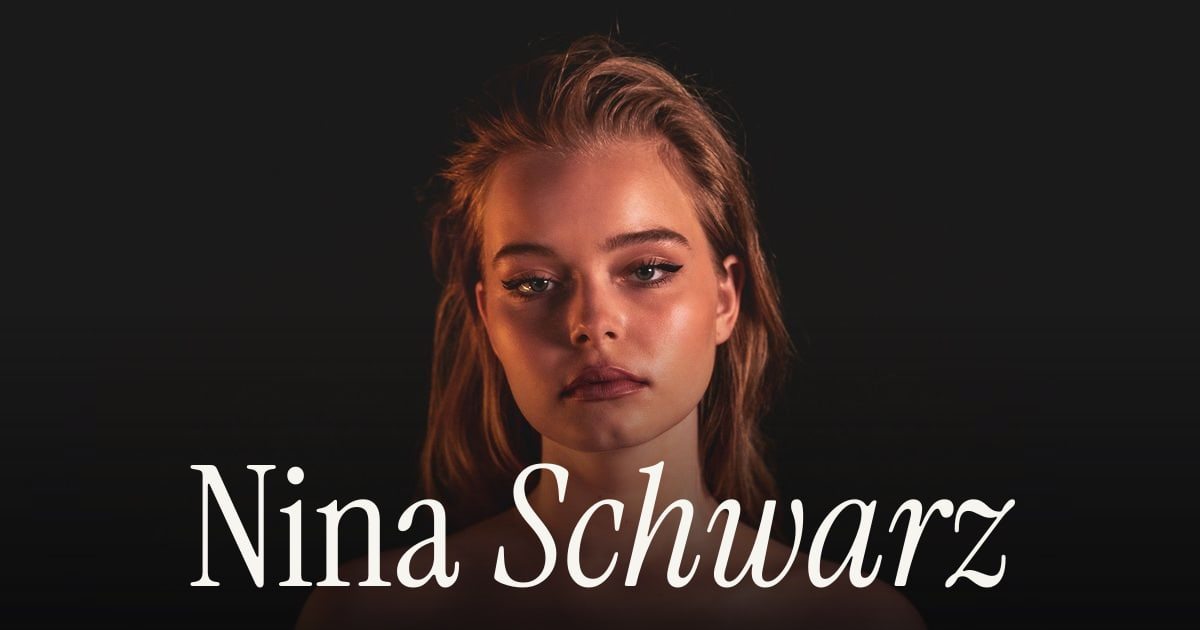
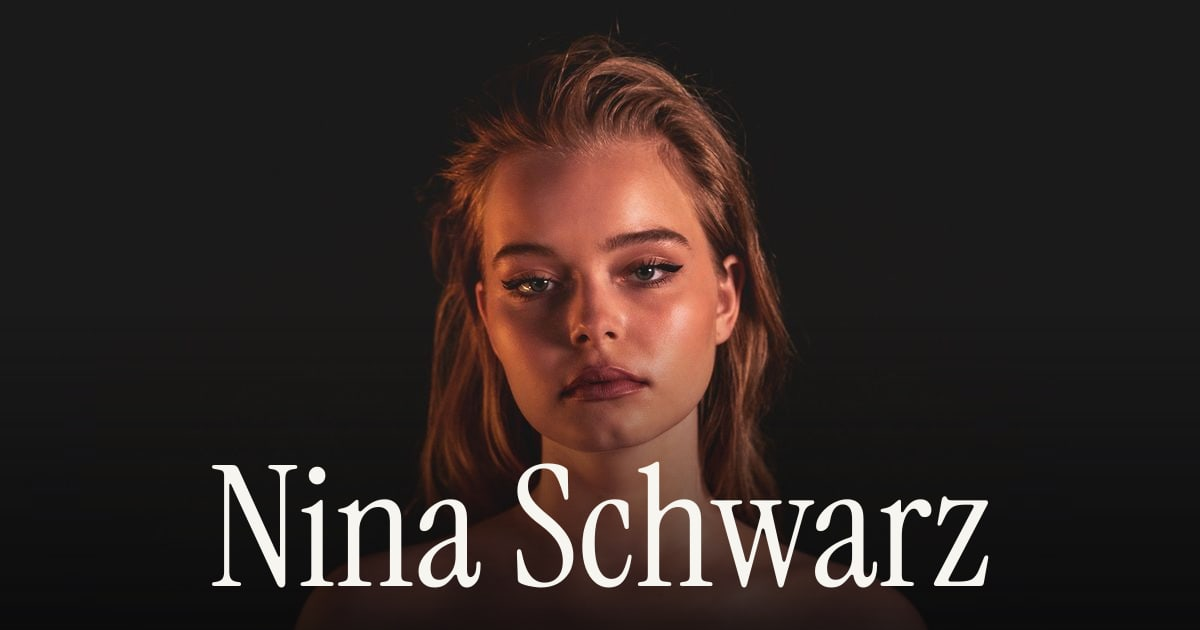
Design tweaks from review
- Hero: tagline without the rule and separators; "Schwarz" set upright
  (share image regenerated to match)
- Quick links: no numbering, no full stops
- Roles ticker a little smaller
- "At a glance" becomes "Selected achievements", laid out as rows
- Play button triangle optically centred in its circle
- Projects list: backdrop photos no longer catch the mouse, so nothing
  but the titles reacts to hovering (Yellow stays the default)
- Project artwork lifts on hover without tilting

Changed region(s): [[0.1542, 0.7238, 0.8633, 0.9349]]

diff --git a/src/i18n/en.ts b/src/i18n/en.ts
@@ -72,7 +72,7 @@ export const en = {
       'Nina has spent her career concerting across the Czech Republic, writing her own music where she has made significant contributions as the Lead Singer and Co-writer of the official <strong>Avon® Cancer Awareness</strong> anthem, which she performed as part of the Avon® Breast Cancer Crusade. Additionally, Nina ventured into the realm of music production with the release of her debut Album titled “<strong>Yellow</strong>,” accompanied by three captivating music videos. Nina has also had a long dance career where she has represented the Extra League in which she competed in several disciplines and styles. Among her greatest dance achievements is becoming <strong>World Champion</strong> in category <strong>Solo</strong>, <strong>Duo</strong> and <strong>Formation Disco Dance</strong>.',
       'As a Performer she had the chance to be part of several projects both in the Czech Republic and in New York where she brought to life several of the famous characters and even contributed to the Choreography for the Musical Rebelove.',
     ],
-    highlightsLabel: 'At a glance',
+    highlightsLabel: 'Selected achievements',
     highlights: [
       { title: 'World Champion', text: 'Disco Dance — Solo, Duo & Formation' },
       { title: 'AMDA, New York', text: 'Musical Theatre, class of 2024' },

diff --git a/src/i18n/cs.ts b/src/i18n/cs.ts
@@ -74,7 +74,7 @@ export const cs: Dictionary = {
       'Nina koncertovala po celé České republice a píše vlastní hudbu. Jako hlavní zpěvačka a spoluautorka stojí za oficiální <strong>hymnou Avon® na podporu boje proti rakovině</strong>, kterou zazpívala v rámci projektu Avon® za zdravá prsa. Pustila se také do hudební produkce a vydala debutové album „<strong>Yellow</strong>“, které doprovázejí tři působivé videoklipy. Má za sebou i dlouhou taneční kariéru – v extralize soutěžila v řadě disciplín a stylů. K jejím největším tanečním úspěchům patří titul <strong>mistryně světa</strong> v disco dance v kategoriích <strong>sólo</strong>, <strong>duo</strong> a <strong>formace</strong>.',
       'Jako performerka se podílela na řadě projektů v České republice i v New Yorku, kde ztvárnila několik slavných postav, a přispěla také k choreografii muzikálu Rebelové.',
     ],
-    highlightsLabel: 'Ve zkratce',
+    highlightsLabel: 'Vybrané úspěchy',
     highlights: [
       { title: 'Mistryně světa', text: 'Disco dance — sólo, duo a formace' },
       { title: 'AMDA, New York', text: 'Muzikálové divadlo, absolventka 2024' },
